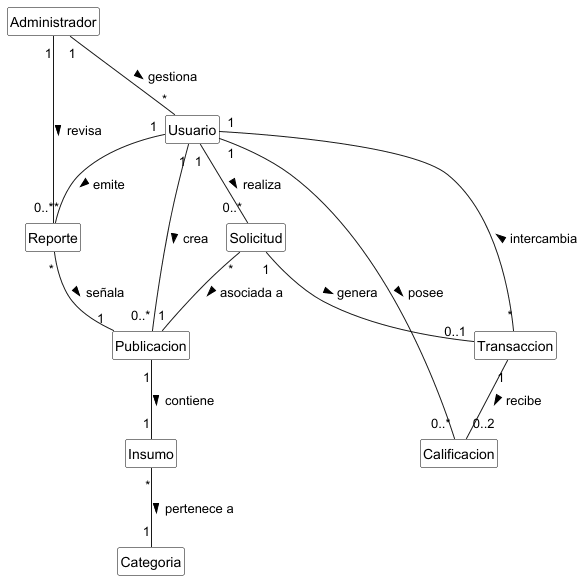
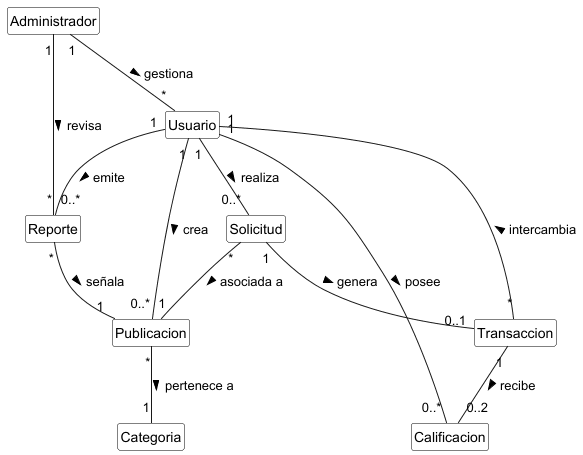
refactorizacion de diagramas, diagrama clases sprint 2 + modificaciones de domineo y entre otros

diff --git a/Documentacion/Sprint 2/arbol_componentes_sprint2.md b/Documentacion/Sprint 2/arbol_componentes_sprint2.md
@@ -1,99 +1,52 @@
-# Árbol de Componentes — Sprint 2
-
 ```mermaid
-graph TD
-    Root[" RootLayout<br/><small>layout.tsx + globals.css</small>"]
 
-    %% ── Componentes existentes del Sprint 1 ──
-    Root --> Login[" LoginPage "]
-    Root --> Register[" RegisterPage "]
-    Root --> InicioPage[" InicioPage "]
-    Root --> MisPubPage[" MisPublicacionesPage "]
+flowchart TB
+Root["RootLayout<br><small>layout.tsx + globals.css</small>"] --> Login["LoginPage"] & Register["RegisterPage"] & InicioPage["InicioPage"] & MisPubPage["MisPublicacionesPage"] & PerfilPage["PerfilPage<br><small>/perfil/page.tsx</small>"] & TransaccionesPage["TransaccionesPage<br><small>/transacciones/page.tsx</small>"] & AdminUsuarios["AdminUsuariosPage<br><small>/admin/usuarios/page.tsx</small>"] & AdminReportes["AdminReportesPage<br><small>/admin/reportes/page.tsx</small>"]
+Root --> AlertaCard
+InicioPage --> InicioClient["InicioClient"]
+InicioClient --> SearchBar["SearchAndFilterBar"] & FilterOv["FilterOverlay"] & PubCard_I["PublicationCard"] & DetailM_I["PublicationDetailModal"] & SolicitudBtn["SolicitudTransaccionModal<br><small>/transacciones/components/<br>SolicitudTransaccionModal.tsx</small>"]
+MisPubPage --> PubClient["PublicationsClient"]
+PubClient --> PubCard["PublicationCard"] & CreateModal["CreatePublicationModal <br><small>+ Validación mejorada HU7</small>"] & DetailModal["PublicationDetailModal"]
+PerfilPage --> PerfilClient["PerfilClient<br><small>/perfil/PerfilClient.tsx</small>"]
+PerfilClient --> EditProfileModal["EditProfileModal<br><small>/perfil/components/<br>EditProfileModal.tsx</small>"] & ReputacionSection["ReputacionSection<br><small>/perfil/components/<br>ReputacionSection.tsx</small>"]
+TransaccionesPage --> TransClient["TransaccionesClient<br><small>/transacciones/<br>TransaccionesClient.tsx</small>"]
+TransClient --> TransCard["TransaccionCard<br><small>/transacciones/components/<br>TransaccionCard.tsx</small>"] & TransDetail["TransaccionDetailModal<br><small>/transacciones/components/<br>TransaccionDetailModal.tsx</small>"] & CalifModal["CalificacionModal<br><small>/transacciones/components/<br>CalificacionModal.tsx</small>"]
+AdminUsuarios --> AdminUsClient["AdminUsuariosClient<br><small>/admin/usuarios/<br>AdminUsuariosClient.tsx</small>"]
+AdminUsClient --> UserTable["UserTable<br><small>/admin/usuarios/components/<br>UserTable.tsx</small>"] & UserEditModal["UserEditModal<br><small>/admin/usuarios/components/<br>UserEditModal.tsx</small>"]
+AdminReportes --> AdminRepClient["AdminReportesClient<br><small>/admin/reportes/<br>AdminReportesClient.tsx</small>"]
+AdminRepClient --> ReporteCard["ReporteCard<br><small>/admin/reportes/components/<br>ReporteCard.tsx</small>"]
+AlertaCard["AlertaCard<br><small>/admin/alertas/components/<br>AlertaCard.tsx</small>"]
 
-    InicioPage --> InicioClient[" InicioClient "]
-    InicioClient --> SearchBar[" SearchAndFilterBar "]
-    InicioClient --> FilterOv[" FilterOverlay "]
-    InicioClient --> PubCard_I[" PublicationCard "]
-    InicioClient --> DetailM_I[" PublicationDetailModal "]
-    InicioClient --> SolicitudBtn[" SolicitudTransaccionModal<br/><small>/transacciones/components/<br/>SolicitudTransaccionModal.tsx</small>"]
-
-    MisPubPage --> PubClient[" PublicationsClient "]
-    PubClient --> PubCard[" PublicationCard "]
-    PubClient --> CreateModal[" CreatePublicationModal <br/><small>+ Validación mejorada HU7</small>"]
-    PubClient --> DetailModal[" PublicationDetailModal "]
-
-    %% ── HU5: Gestionar Perfil ──
-    Root --> PerfilPage[" PerfilPage<br/><small>/perfil/page.tsx</small>"]
-    PerfilPage --> PerfilClient[" PerfilClient<br/><small>/perfil/PerfilClient.tsx</small>"]
-    PerfilClient --> EditProfileModal[" EditProfileModal<br/><small>/perfil/components/<br/>EditProfileModal.tsx</small>"]
-    PerfilClient --> ReputacionSection[" ReputacionSection<br/><small>/perfil/components/<br/>ReputacionSection.tsx</small>"]
-
-    %% ── HU8, HU9, HU10: Transacciones ──
-    Root --> TransaccionesPage[" TransaccionesPage<br/><small>/transacciones/page.tsx</small>"]
-    TransaccionesPage --> TransClient[" TransaccionesClient<br/><small>/transacciones/<br/>TransaccionesClient.tsx</small>"]
-    TransClient --> TransCard[" TransaccionCard<br/><small>/transacciones/components/<br/>TransaccionCard.tsx</small>"]
-    TransClient --> TransDetail[" TransaccionDetailModal<br/><small>/transacciones/components/<br/>TransaccionDetailModal.tsx</small>"]
-    TransClient --> TransStatus[" TransaccionStatusBadge<br/><small>/transacciones/components/<br/>TransaccionStatusBadge.tsx</small>"]
-    TransClient --> StockAlert[" StockValidationAlert<br/><small>/transacciones/components/<br/>StockValidationAlert.tsx</small>"]
-    TransClient --> CalifModal[" CalificacionModal<br/><small>/transacciones/components/<br/>CalificacionModal.tsx</small>"]
-
-    %% ── HU6: Admin - Gestionar Usuarios ──
-    Root --> AdminUsuarios[" AdminUsuariosPage<br/><small>/admin/usuarios/page.tsx</small>"]
-    AdminUsuarios --> AdminUsClient[" AdminUsuariosClient<br/><small>/admin/usuarios/<br/>AdminUsuariosClient.tsx</small>"]
-    AdminUsClient --> UserTable[" UserTable<br/><small>/admin/usuarios/components/<br/>UserTable.tsx</small>"]
-    AdminUsClient --> UserEditModal[" UserEditModal<br/><small>/admin/usuarios/components/<br/>UserEditModal.tsx</small>"]
-
-    %% ── HU12: Admin - Alertas de Insumos ──
-    Root --> AdminAlertas[" AdminAlertasPage<br/><small>/admin/alertas/page.tsx</small>"]
-    AdminAlertas --> AdminAlertClient[" AdminAlertasClient<br/><small>/admin/alertas/<br/>AdminAlertasClient.tsx</small>"]
-    AdminAlertClient --> AlertaCard[" AlertaCard<br/><small>/admin/alertas/components/<br/>AlertaCard.tsx</small>"]
-
-    %% ── HU13: Admin - Reportes y Control ──
-    Root --> AdminReportes[" AdminReportesPage<br/><small>/admin/reportes/page.tsx</small>"]
-    AdminReportes --> AdminRepClient[" AdminReportesClient<br/><small>/admin/reportes/<br/>AdminReportesClient.tsx</small>"]
-    AdminRepClient --> ReporteCard[" ReporteCard<br/><small>/admin/reportes/components/<br/>ReporteCard.tsx</small>"]
-
-    %% ── Estilos ──
     style Root fill:#0050cb,color:#fff,stroke:#003fa4,stroke-width:2px
-
     style Login fill:#e1e2ee,stroke:#727687,color:#191b24
     style Register fill:#e1e2ee,stroke:#727687,color:#191b24
     style InicioPage fill:#e1e2ee,stroke:#727687,color:#191b24
     style MisPubPage fill:#e1e2ee,stroke:#727687,color:#191b24
+    style PerfilPage fill:#dae1ff,stroke:#505f76,color:#191b24
+    style TransaccionesPage fill:#dae1ff,stroke:#505f76,color:#191b24
+    style AdminUsuarios fill:#d0e1fb,stroke:#505f76,color:#191b24
+    style AdminReportes fill:#d0e1fb,stroke:#505f76,color:#191b24
     style InicioClient fill:#e1e2ee,stroke:#727687,color:#191b24
     style SearchBar fill:#e1e2ee,stroke:#c2c6d8,color:#424656
     style FilterOv fill:#e1e2ee,stroke:#c2c6d8,color:#424656
     style PubCard_I fill:#e1e2ee,stroke:#c2c6d8,color:#424656
     style DetailM_I fill:#e1e2ee,stroke:#c2c6d8,color:#424656
+    style SolicitudBtn fill:#ffdbd0,stroke:#a33200,color:#191b24
     style PubClient fill:#e1e2ee,stroke:#727687,color:#191b24
     style PubCard fill:#e1e2ee,stroke:#c2c6d8,color:#424656
     style CreateModal fill:#e1e2ee,stroke:#c2c6d8,color:#424656
     style DetailModal fill:#e1e2ee,stroke:#c2c6d8,color:#424656
-
-    style PerfilPage fill:#dae1ff,stroke:#505f76,color:#191b24
     style PerfilClient fill:#ecedfa,stroke:#727687,color:#191b24
     style EditProfileModal fill:#ffdbd0,stroke:#a33200,color:#191b24
     style ReputacionSection fill:#ffdbd0,stroke:#a33200,color:#191b24
-
-    style TransaccionesPage fill:#dae1ff,stroke:#505f76,color:#191b24
     style TransClient fill:#ecedfa,stroke:#727687,color:#191b24
     style TransCard fill:#f2f3ff,stroke:#727687,color:#191b24
     style TransDetail fill:#ffdbd0,stroke:#a33200,color:#191b24
-    style TransStatus fill:#f2f3ff,stroke:#727687,color:#191b24
-    style StockAlert fill:#ffdad6,stroke:#ba1a1a,color:#93000a
     style CalifModal fill:#ffdbd0,stroke:#a33200,color:#191b24
-    style SolicitudBtn fill:#ffdbd0,stroke:#a33200,color:#191b24
-
-    style AdminUsuarios fill:#d0e1fb,stroke:#505f76,color:#191b24
     style AdminUsClient fill:#ecedfa,stroke:#727687,color:#191b24
     style UserTable fill:#f2f3ff,stroke:#727687,color:#191b24
     style UserEditModal fill:#ffdbd0,stroke:#a33200,color:#191b24
-
-    style AdminAlertas fill:#d0e1fb,stroke:#505f76,color:#191b24
-    style AdminAlertClient fill:#ecedfa,stroke:#727687,color:#191b24
     style AlertaCard fill:#f2f3ff,stroke:#727687,color:#191b24
-
-    style AdminReportes fill:#d0e1fb,stroke:#505f76,color:#191b24
     style AdminRepClient fill:#ecedfa,stroke:#727687,color:#191b24
     style ReporteCard fill:#f2f3ff,stroke:#727687,color:#191b24
 ```

diff --git a/Documentacion/Sprint 1/arbol_componentes_sprint1.md b/Documentacion/Sprint 1/arbol_componentes_sprint1.md
@@ -1,33 +1,32 @@
-# Árbol de Componentes — Sprint 1
-
 ```mermaid
+
 graph TD
-    Root["🏗️ RootLayout<br/><small>layout.tsx + globals.css</small>"]
+Root[" RootLayout<br/><small>layout.tsx + globals.css</small>"]
 
-    Root --> Home["🔀 HomePage<br/><small>page.tsx</small><br/><small>redirect → /login</small>"]
+    Root --> Home[" HomePage<br/><small>page.tsx</small><br/><small>redirect → /login</small>"]
 
-    Root --> Login["🔐 LoginPage<br/><small>/login/page.tsx</small>"]
+    Root --> Login[" LoginPage<br/><small>/login/page.tsx</small>"]
 
-    Root --> Register["📝 RegisterPage<br/><small>/register/page.tsx</small>"]
+    Root --> Register[" RegisterPage<br/><small>/register/page.tsx</small>"]
 
-    Root --> InicioPage["🏠 InicioPage<br/><small>/inicio/page.tsx</small>"]
-    InicioPage --> InicioClient["📋 InicioClient<br/><small>/inicio/InicioClient.tsx</small>"]
+    Root --> InicioPage[" InicioPage<br/><small>/inicio/page.tsx</small>"]
+    InicioPage --> InicioClient[" InicioClient<br/><small>/inicio/InicioClient.tsx</small>"]
 
-    InicioClient --> TopNav_I["🧭 TopNavbar<br/><small>inline en InicioClient</small>"]
-    InicioClient --> SearchBar["🔍 SearchAndFilterBar<br/><small>/inicio/components/<br/>SearchAndFilterBar.tsx</small>"]
-    InicioClient --> FilterOv["⚙️ FilterOverlay<br/><small>/inicio/components/<br/>FilterOverlay.tsx</small>"]
-    InicioClient --> PubCard_I["🃏 PublicationCard<br/><small>reutilizado desde<br/>/mis-publicaciones/</small>"]
-    InicioClient --> DetailM_I["📄 PublicationDetailModal<br/><small>reutilizado, modo readOnly</small>"]
-    InicioClient --> BotNav_I["📱 BottomNavbar<br/><small>inline en InicioClient</small>"]
+    InicioClient --> TopNav_I[" TopNavbar<br/><small>inline en InicioClient</small>"]
+    InicioClient --> SearchBar[" SearchAndFilterBar<br/><small>/inicio/components/<br/>SearchAndFilterBar.tsx</small>"]
+    InicioClient --> FilterOv[" FilterOverlay<br/><small>/inicio/components/<br/>FilterOverlay.tsx</small>"]
+    InicioClient --> PubCard_I[" PublicationCard<br/><small>reutilizado desde<br/>/mis-publicaciones/</small>"]
+    InicioClient --> DetailM_I[" PublicationDetailModal<br/><small>reutilizado, modo readOnly</small>"]
+    InicioClient --> BotNav_I[" BottomNavbar<br/><small>inline en InicioClient</small>"]
 
-    Root --> MisPubPage["📦 MisPublicacionesPage<br/><small>/mis-publicaciones/page.tsx</small>"]
-    MisPubPage --> PubClient["📋 PublicationsClient<br/><small>/mis-publicaciones/components/<br/>PublicationsClient.tsx</small>"]
+    Root --> MisPubPage[" MisPublicacionesPage<br/><small>/mis-publicaciones/page.tsx</small>"]
+    MisPubPage --> PubClient[" PublicationsClient<br/><small>/mis-publicaciones/components/<br/>PublicationsClient.tsx</small>"]
 
-    PubClient --> TopNav_P["🧭 TopNavbar<br/><small>inline en PublicationsClient</small>"]
-    PubClient --> PubCard["🃏 PublicationCard<br/><small>/mis-publicaciones/components/<br/>PublicationCard.tsx</small>"]
-    PubClient --> CreateModal["➕ CreatePublicationModal<br/><small>/mis-publicaciones/components/<br/>CreatePublicationModal.tsx</small>"]
-    PubClient --> DetailModal["📄 PublicationDetailModal<br/><small>/mis-publicaciones/components/<br/>PublicationDetailModal.tsx</small>"]
-    PubClient --> BotNav_P["📱 BottomNavbar<br/><small>inline en PublicationsClient</small>"]
+    PubClient --> TopNav_P[" TopNavbar<br/><small>inline en PublicationsClient</small>"]
+    PubClient --> PubCard[" PublicationCard<br/><small>/mis-publicaciones/components/<br/>PublicationCard.tsx</small>"]
+    PubClient --> CreateModal[" CreatePublicationModal<br/><small>/mis-publicaciones/components/<br/>CreatePublicationModal.tsx</small>"]
+    PubClient --> DetailModal[" PublicationDetailModal<br/><small>/mis-publicaciones/components/<br/>PublicationDetailModal.tsx</small>"]
+    PubClient --> BotNav_P[" BottomNavbar<br/><small>inline en PublicationsClient</small>"]
 
     style Root fill:#0050cb,color:#fff,stroke:#003fa4,stroke-width:2px
     style Home fill:#e1e2ee,stroke:#727687,color:#191b24
@@ -48,4 +47,3 @@ graph TD
     style BotNav_I fill:#f2f3ff,stroke:#c2c6d8,color:#424656
     style TopNav_P fill:#f2f3ff,stroke:#c2c6d8,color:#424656
     style BotNav_P fill:#f2f3ff,stroke:#c2c6d8,color:#424656
-```

diff --git a/Documentacion/Sprint 2/Modelo Entidad-Relación/Modelo_datos.md b/Documentacion/Sprint 2/Modelo Entidad-Relación/Modelo_datos.md
@@ -10,6 +10,7 @@ erDiagram
         string email
         string contrasena
         string telefono
+        int qualification "Promedio de calificaciones recibidas"
         string rol "enum: admin, user, suspend"
     }
     
@@ -23,6 +24,7 @@ erDiagram
         date fecha_expiracion
         string descripcion
         string tipo
+        int cantidad
         boolean activa "Indica si está activa"
     }
     
@@ -44,3 +46,16 @@ erDiagram
         int publicacion_id FK "Clave foránea de PUBLICATION"
         int cantidad
     }
+
+    ReportesEntity {
+        int id PK
+        int usuario_reporta_id FK "Clave foránea de USER (quien reporta)"
+        int publicacion_id FK "Clave foránea de PUBLICATION"
+        string motivo
+        string estado "enum: pendiente, aceptado, rechazado"
+        date fecha_reporte
+    }
+
+    UserEntity ||--o{ ReportesEntity : "realiza >"
+    Publication ||--o{ ReportesEntity : "es reportada >"
+    